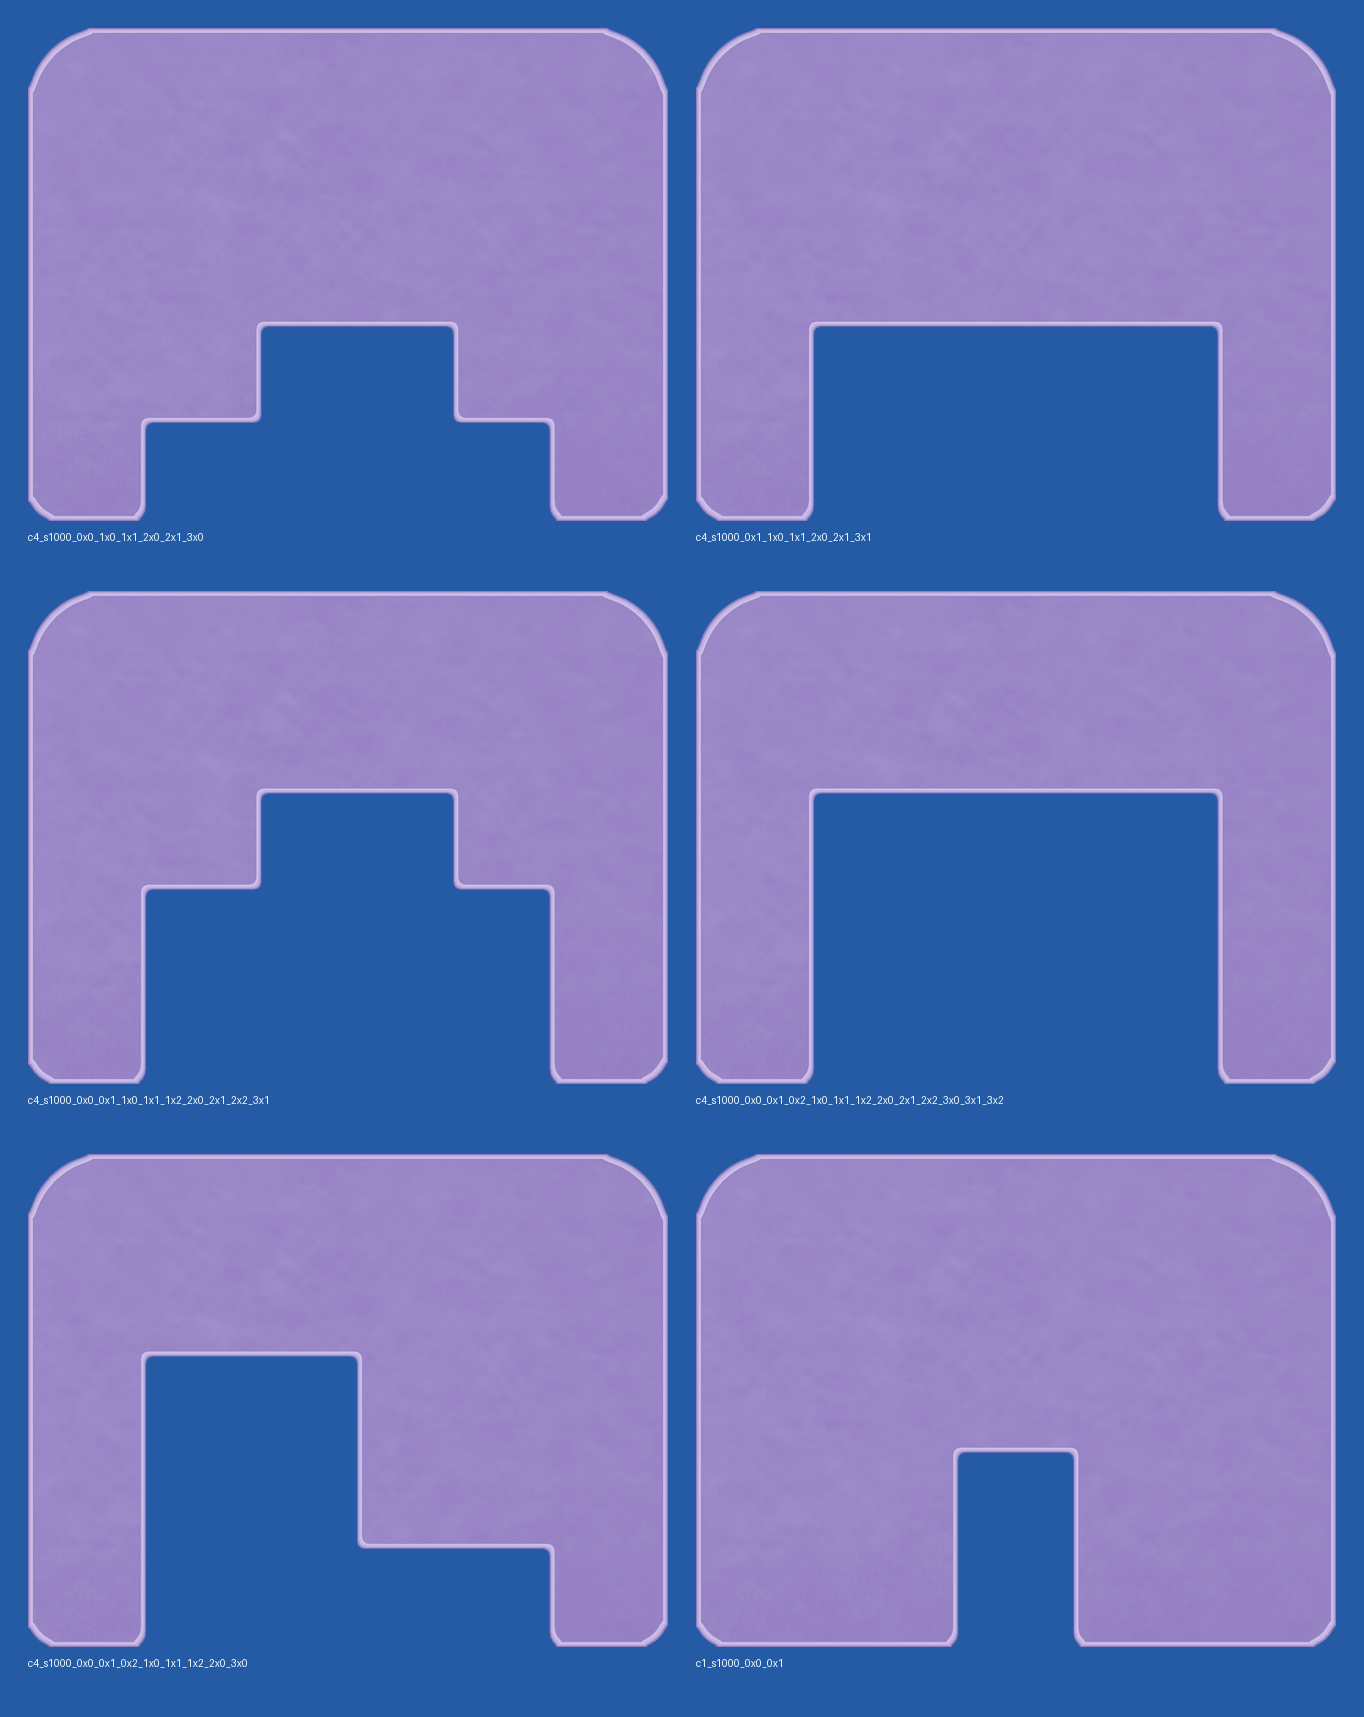
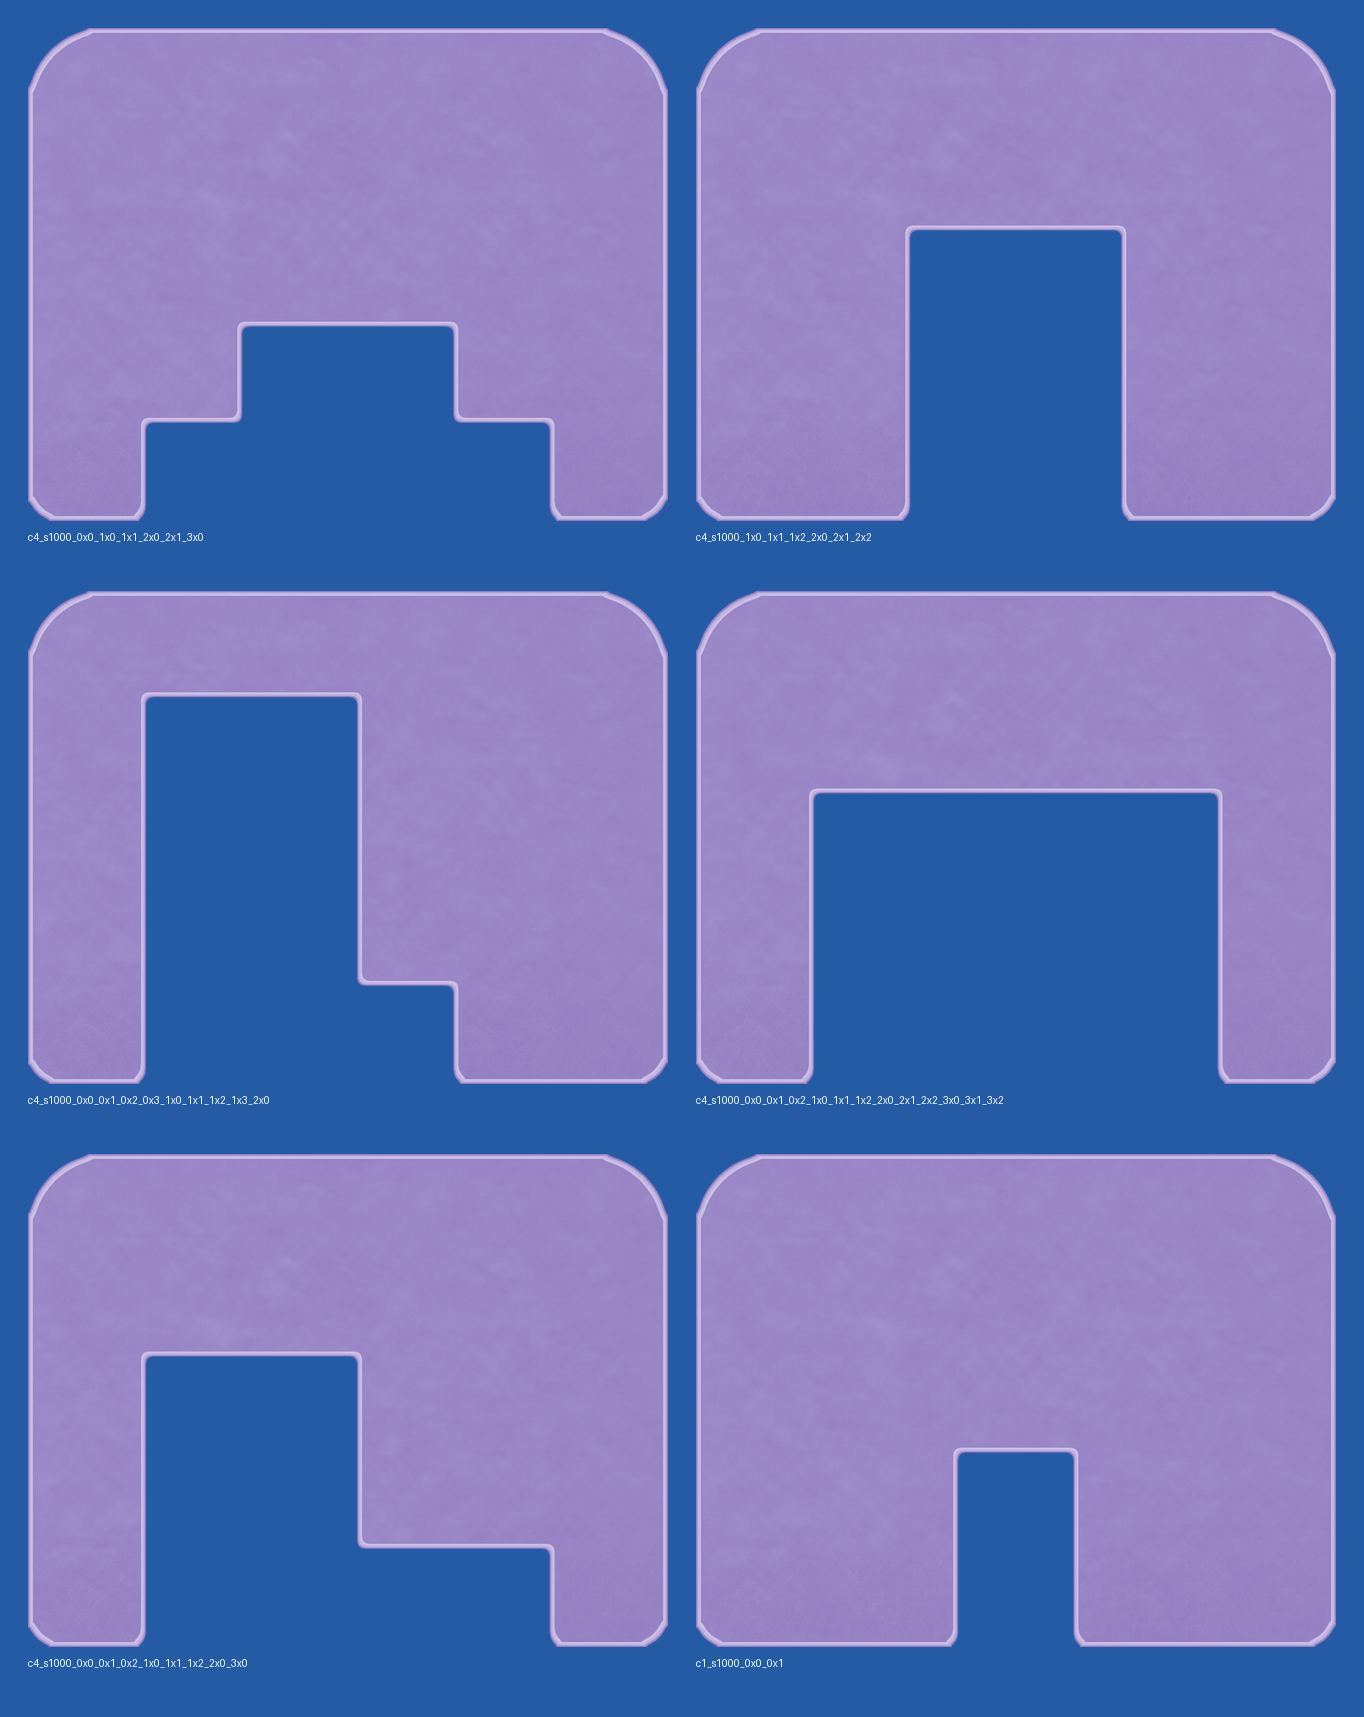
fix: compact level formations and sheet clearance

Changed region(s): [[0.0924, 0.4013, 0.4311, 0.6482], [0.585, 0.1235, 0.893, 0.3087], [0.154, 0.1852, 0.2155, 0.2469]]

diff --git a/MarbleSort/Assets/MarbleSort/Tests/EditMode/ProductionLevelTests.cs b/MarbleSort/Assets/MarbleSort/Tests/EditMode/ProductionLevelTests.cs
@@ -1,6 +1,7 @@
 using System;
 using System.Collections.Generic;
 using MarbleSort.Data;
+using MarbleSort.Presentation;
 using MarbleSort.Session;
 using MarbleSort.Validation;
 using NUnit.Framework;
@@ -20,7 +21,7 @@ namespace MarbleSort.Tests.EditMode
             int[] expectedTopBoxCounts = { 6, 6, 9, 12, 8 };
             int[] expectedVisibleBoxCounts = { 4, 2, 3, 4, 4 };
             int[] expectedColorCounts = { 2, 3, 4, 4, 4 };
-            int[] expectedMaximumDepths = { 2, 2, 3, 3, 3 };
+            int[] expectedMaximumDepths = { 2, 3, 4, 3, 3 };
 
             Assert.That(catalog.levels.Length, Is.EqualTo(expectedTopBoxCounts.Length));
             for (int levelIndex = 0; levelIndex < catalog.levels.Length; levelIndex++)
@@ -61,6 +62,71 @@ namespace MarbleSort.Tests.EditMode
                 Assert.That(result.SelectionSequence.Count, Is.EqualTo(level.topGrid.boxes.Length));
                 Assert.That(result.PeakConveyorOccupancy, Is.InRange(1, catalog.conveyor.slotCount));
                 Assert.That(result.ExploredStateCount, Is.GreaterThan(0));
+            }
+        }
+
+        [Test]
+        public void ProductionLevels_EveryOccupiedColumnHasAFirstRowTray()
+        {
+            LevelCatalogData catalog = LoadProductionCatalog();
+
+            for (int levelIndex = 0; levelIndex < catalog.levels.Length; levelIndex++)
+            {
+                LevelData level = catalog.levels[levelIndex];
+                HashSet<int> occupiedColumns = new HashSet<int>();
+                HashSet<int> firstRowColumns = new HashSet<int>();
+                for (int boxIndex = 0; boxIndex < level.topGrid.boxes.Length; boxIndex++)
+                {
+                    TopBoxData box = level.topGrid.boxes[boxIndex];
+                    occupiedColumns.Add(box.column);
+                    if (box.row == 0)
+                    {
+                        firstRowColumns.Add(box.column);
+                    }
+                }
+
+                Assert.That(
+                    firstRowColumns.SetEquals(occupiedColumns),
+                    Is.True,
+                    $"{level.displayName} leaves an empty first-row position below a hidden tray.");
+            }
+        }
+
+        [Test]
+        public void LevelsTwoAndThree_UseTheApprovedCompactFormations()
+        {
+            LevelCatalogData catalog = LoadProductionCatalog();
+
+            AssertFormation(
+                catalog.levels[1],
+                "1x0", "2x0", "1x1", "2x1", "1x2", "2x2");
+            AssertFormation(
+                catalog.levels[2],
+                "0x0", "1x0", "2x0",
+                "0x1", "1x1",
+                "0x2", "1x2",
+                "0x3", "1x3");
+        }
+
+        [Test]
+        public void EveryProductionLevel_LoadsItsExactBakedFormationSheet()
+        {
+            LevelCatalogData catalog = LoadProductionCatalog();
+
+            for (int levelIndex = 0; levelIndex < catalog.levels.Length; levelIndex++)
+            {
+                LevelData level = catalog.levels[levelIndex];
+                Assert.That(
+                    PremiumSheetArtworkLibrary.TryGet(level.topGrid, out Sprite artwork),
+                    Is.True,
+                    $"Missing baked formation sheet for {level.displayName}.");
+                Assert.That(artwork, Is.Not.Null);
+                Assert.That(
+                    artwork.texture.width,
+                    Is.EqualTo(PremiumSheetArtworkLibrary.TextureWidth));
+                Assert.That(
+                    artwork.texture.height,
+                    Is.EqualTo(PremiumSheetArtworkLibrary.TextureHeight));
             }
         }
 
@@ -140,6 +206,21 @@ namespace MarbleSort.Tests.EditMode
             }
 
             return maximumDepth;
+        }
+
+        private static void AssertFormation(LevelData level, params string[] expectedCells)
+        {
+            HashSet<string> actualCells = new HashSet<string>(StringComparer.Ordinal);
+            for (int index = 0; index < level.topGrid.boxes.Length; index++)
+            {
+                TopBoxData box = level.topGrid.boxes[index];
+                actualCells.Add($"{box.column}x{box.row}");
+            }
+
+            Assert.That(
+                actualCells.SetEquals(expectedCells),
+                Is.True,
+                $"{level.displayName} does not match its approved compact formation.");
         }
 
         private static int GetVisibleBoxCount(TopBoxData[] boxes)

diff --git a/Docs/Tools/bake_premium_sheet_sprites.py b/Docs/Tools/bake_premium_sheet_sprites.py
@@ -156,7 +156,21 @@ def recess_path(
     current_top = ((column_height(run_start, occupied) - 0.5) * spacing) + RECESS_CLEARANCE
     path.append((left, current_top))
     for column in range(run_start, run_end + 1):
-        right = ((column - grid_center) * spacing) + half_cell
+        current_center = (column - grid_center) * spacing
+        right = current_center + half_cell
+        next_top = current_top
+        if column < run_end:
+            next_top = (
+                (column_height(column + 1, occupied) - 0.5) * spacing
+            ) + RECESS_CLEARANCE
+
+            # On an upward step, turn at the taller column's expanded left
+            # edge. The shorter column's right edge falls inside the higher
+            # tray and was the source of the visible sheet contact.
+            if next_top > current_top:
+                next_center = ((column + 1) - grid_center) * spacing
+                right = next_center - half_cell
+
         path.append((right, current_top))
         if column >= run_end:
             path.append((right, WORLD_BOTTOM + radius))
@@ -169,7 +183,6 @@ def recess_path(
                 segments=18,
             )
             continue
-        next_top = ((column_height(column + 1, occupied) - 0.5) * spacing) + RECESS_CLEARANCE
         if not math.isclose(next_top, current_top, abs_tol=1e-6):
             path.append((right, next_top))
             current_top = next_top